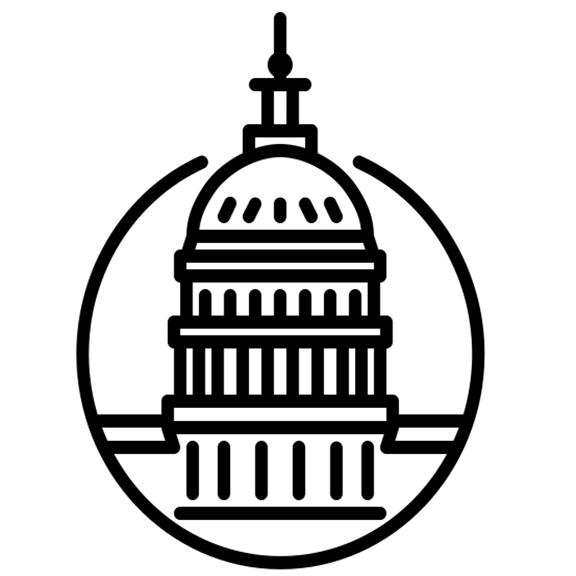
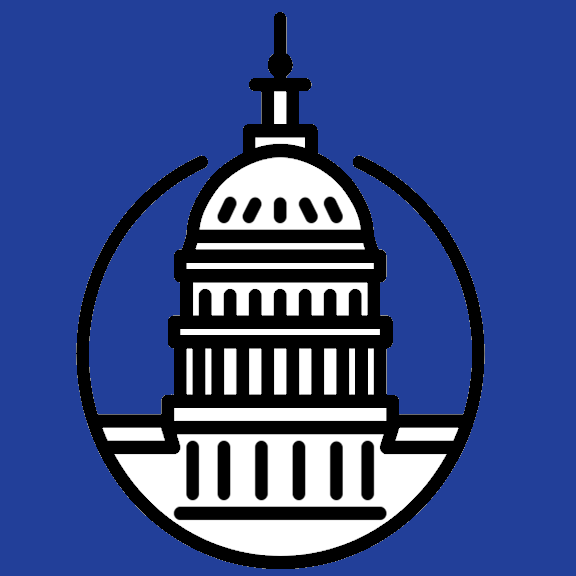
Added a CNPS article; changed hackathon pic

diff --git a/templates/volunteer.html b/templates/volunteer.html
@@ -16,8 +16,8 @@
     </div>
 
     <div class="row" id="photo-row">
-        <div class="col-xs-12 col-md-12 col-lg-12">Most recently, I volunteered for the California Native Plant Society and the Redwood Region Audubon Society.<br>
-        I was the EcoNews Editor for CNPS' newsletter submission, which included copy-editing and writing articles.<br>
+        <div class="col-xs-12 col-md-12 col-lg-12">Most recently, I volunteered for the California Native Plant Society and the Redwood Region Audubon Society.<br><br>
+        As Editor for the CNPS' newsletter, I regularly copy-edited event submission and wrote articles.
         </div>
     </div>
 
@@ -32,25 +32,29 @@
         Calflora also searches by location, and returns a list of plants that grow in a particular area. After clicking on “What Grows Here?” on the Calflora homepage, you will be directed to the “What Grows Here?” tool. In Figure 2, I drew a polygon around my address and learned I should be able to find 142 plants around my home.<br><br>
         Advanced searching options are available through Calflora that allow you to customize your particular inquiry, and does not require a steep learning curve. I encourage you to explore this database, and we’ll see you February 10th!
         </div>
+
+        <div class="col-xs-12 col-md-6 col-lg-6">
+            <div><img class="myImg" border="0" src="./static/images/calflora.jpg" alt="calflora" width="100%"></div>
+            <div align="center"><i><b>Figure 1:</b> Calflora.org homepage: search for plant information or enter an observation</i></div>
+        </div>
+
+        <div class="col-xs-12 col-md-6 col-lg-6">
+            <div><img class="myImg" border="0" src="./static/images/figure2.jpg" alt="figure2" width="100%"></a></div>
+            <div align="center"><i><b>Figure 2:</b> Searching for plants around Carlotta, CA</i></div>
+        </div>
     </div>
 
-    <!-- caption row -->
-    <div class="row" id="text-row">
-        <div class="col-xs-12 col-md-6 col-lg-6" align="center">
-            <b>Figure 1:</b> Calflora.org homepage: search for plant information or enter an observation
+    <div class="row" id="photo-row">
+        <div class="col-xs-12 col-md-12 col-lg-12"><h3>Financial Assistance Available to Lawn-replacing Landowners</h3><br>
+        by Kate Rowe<br>
+        <i>published in <a href="http://yournec.org/econews/junjul2016">EcoNews June/July 2016,</a> pg. 23</i><br>
+        As we welcome the beginning of this winter’s rain, we need to be mindful that we are still in a drought. While planning for the upcoming planting season, consider replacing water-guzzling lawns with drought tolerant plants. Local landowner’s can effectively reduce their water footprint by making this switch, and available state rebates help hinder the cost. Under California’s 2015 Turf Replacement Initiative, single-family households can apply for up to $2,000 in rebates to replace their turf with a drought-tolerant landscape. With the goal of removing 10 million square feet of turf, the state is offering these $2 per square foot rebates on a first-come, first serve basis. To start, applications are (only) available online and require photos, measurements, and a copy of a recent water or energy bill. And then like most good things in life, you wait a couple of weeks for a response. After approval, you have four months to complete the conversion before you have to submit five “after” photos of your project. Rebates will be sent 8 – 10 weeks post-completion.  If you rely on these rebates to make this project feasible, wait for that initial response first. Good news if you rent or lease -- you are still eligible for this program if you obtain permission from the landowner.<br>
+        This process appears straightforward and simple, and provides an opportunity to learn more about choosing which native, drought-tolerant plants have the highest likelihood of survival in your yard. Native plants can require little water or care once planted in an appropriate setting, but understanding what will work best can sometimes require more planning. CNPS’s website (cnps.org/cnps/grownative/lawn) provides helpful tools for replacing your lawn and the North Coast’s chapter website has great information about locally found plants (northcoastcnps.org). For more information and to get started, visit saveourwaterrebates.com
         </div>
-        <div class="col-xs-12 col-md-6 col-lg-6" align="center">
-            <b>Figure 2:</b> Searching for plants around Carlotta, CA
-        </div> 
-    </div>
 
-    <!-- Image row -->
-    <div class="row" id="projects-row">
         <div class="col-xs-12 col-md-6 col-lg-6">
-            <img class="myImg" border="0" src="./static/images/calflora.jpg" alt="calflora" width="100%">
-        </div>
-        <div class="col-xs-12 col-md-6 col-lg-6">
-            <img class="myImg" border="0" src="./static/images/figure2.jpg" alt="figure2" width="100%"></a>
+            <div><img class="myImg" border="0" src="./static/images/garden_wildearth.jpg" alt="garden" width="100%" align="center"></div>
+            <div align="center"><i>An example of a local lawn-replacing project located in McKinleyville. Plants include Purple Needle Grass, many native wildflowers, and a few non-natives.  The homeowner reports that the planting is visited by bees, butterflies, and a family of quail. Picture provided by Donna Wildearth, Garden Visions Landscape Design</i></div>
         </div>
     </div>
 
